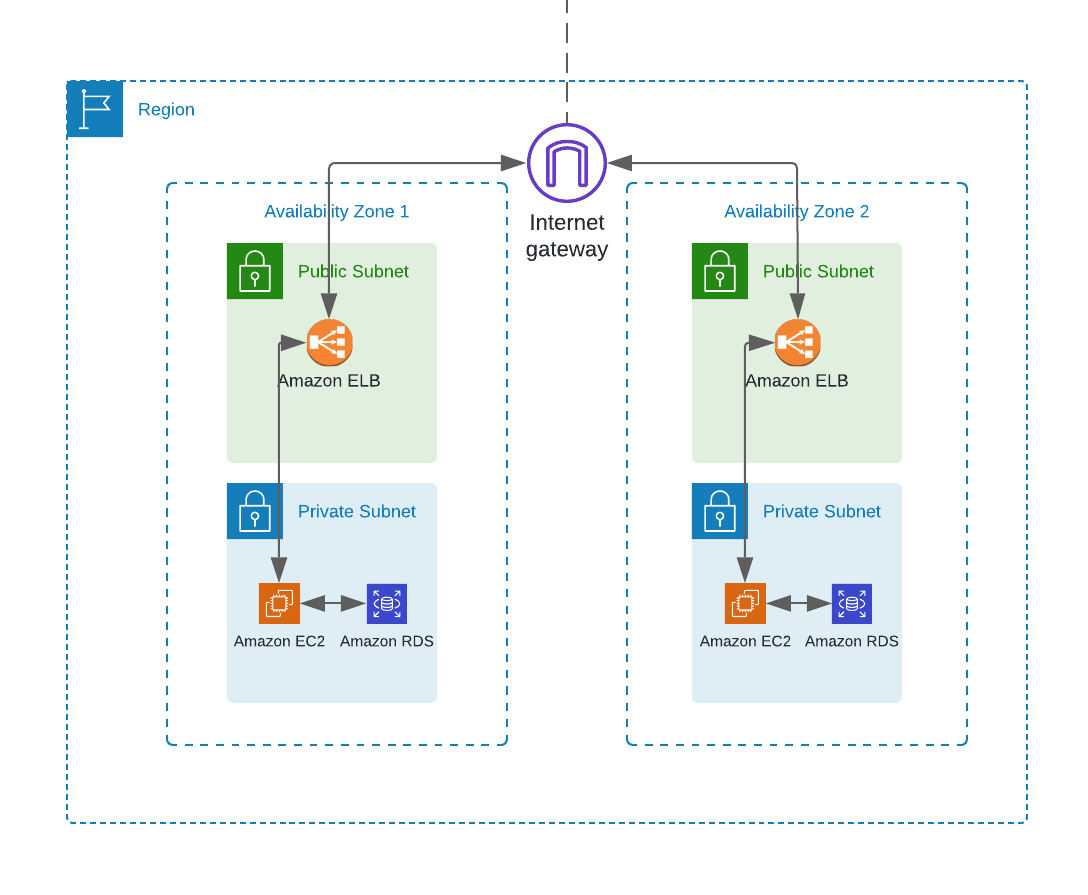
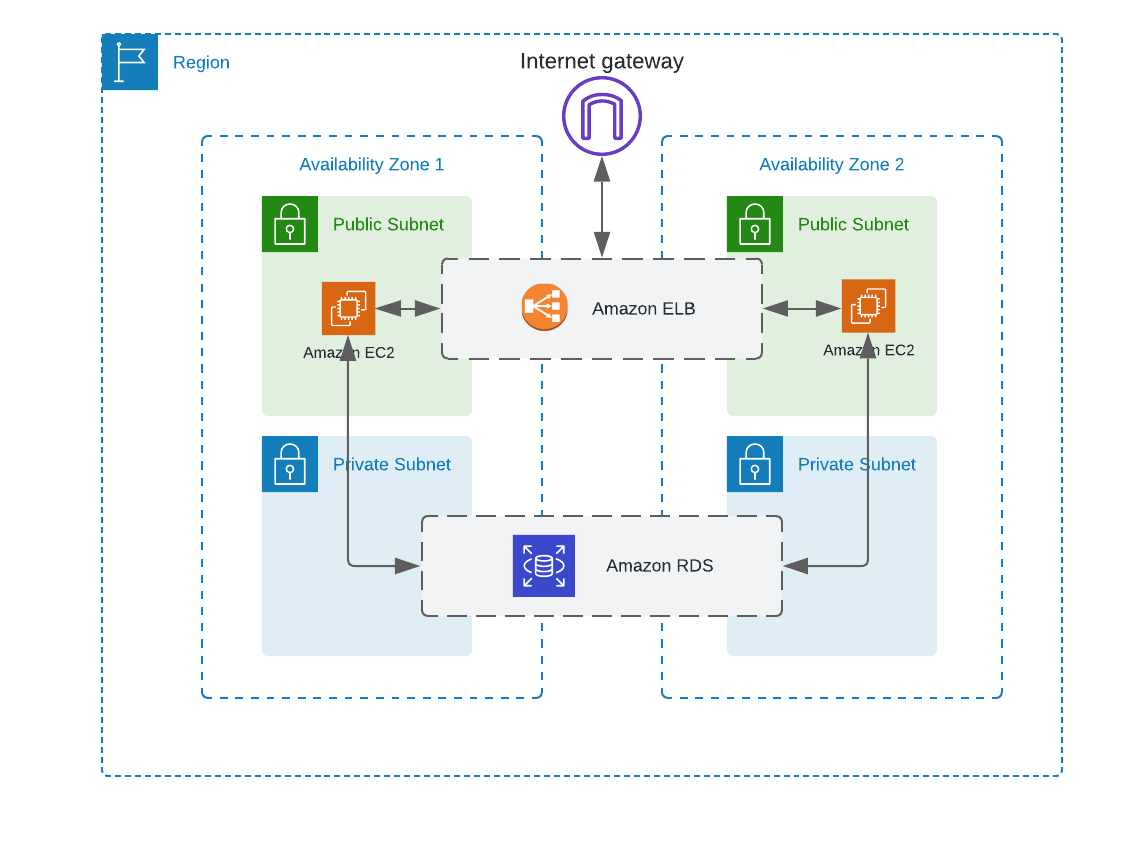
update some part of documentation

diff --git a/todolistDocs/src/pages/setup.md b/todolistDocs/src/pages/setup.md
@@ -17,9 +17,7 @@ title: Project setup
 - **API**:
   - Python
   - FastAPI
-  - Uvicorn for local testing
 - **Database**:
-  - SQLite for local testing
   - MySQL for production
 - **User interface**:
   - HTML / CSS / JavaScript
@@ -35,23 +33,13 @@ title: Project setup
 
 ### Architecture
 
-![Architecture](/diagrams/architecture2.png)
+![Architecture](/diagrams/architecture.png)
 
 ### Database
 
-![Database](/diagrams/database.jpeg)
+![Database](/diagrams/database.png)
 
 ### VPC
 
 ![VPC](/diagrams/vpc.png)
-
-### Workflows
-
-#### Add a task
-
-![workflow1](/diagrams/workflow_add_task.jpeg)
-
-#### Authenticate
-
-![workflow2](/diagrams/workflow_connect.jpeg)
 

diff --git a/todolistDocs/src/pages/scrum17.md b/todolistDocs/src/pages/scrum17.md
@@ -21,7 +21,7 @@ Task management
 | User clicks "Add Task" button           | A form to add a new task appears                             |
 | User fills in the title and description | The task is added to the task list with the provided details |
 
-[Previous](/userStories)
+[Previous](/scrum15)
 
 <p align="right">
     [Next](/scrum18)

diff --git a/todolistDocs/src/pages/userStories.md b/todolistDocs/src/pages/userStories.md
@@ -4,9 +4,13 @@ title: Scrum-17
 
 # User Stories
 
+- [Scrum-14](/scrum14)
+- [Scrum-15](/scrum15)
 - [Scrum-17](/scrum17)
 - [Scrum-18](/scrum18)
 - [Scrum-19](/scrum19)
 - [Scrum-20](/scrum20)
 - [Scrum-21](/scrum21)
 - [Scrum-22](/scrum22)
+- [Scrum-23](/scrum23)
+- [Scrum-24](/scrum24)

diff --git a/todolistDocs/src/pages/index.md b/todolistDocs/src/pages/index.md
@@ -14,4 +14,4 @@ Robin Lafage
 
 - [Projet setup](/setup)
 - [User Stories](/userStories)
-- [API](http://127.0.0.1:8000/docs) <!-- Ajouter le lien vers todolist/docs une fois que ce sera déployé -->
+- [API](https://es-ua.ddns.net/docs)

diff --git a/todolistDocs/src/pages/scrum19.md b/todolistDocs/src/pages/scrum19.md
@@ -22,3 +22,7 @@ Task management
 | User confirms deletion           | The task is removed from the task list    |
 
 [Previous](/scrum18)
+
+<p align="right">
+    [Next](/scrum20)
+</p>

diff --git a/todolistDocs/src/pages/scrum15.md b/todolistDocs/src/pages/scrum15.md
@@ -32,5 +32,5 @@ Authentication
 [Previous](/scrum14)
 
 <p align="right">
-    [Next](/scrum16)
+    [Next](/scrum17)
 </p>
